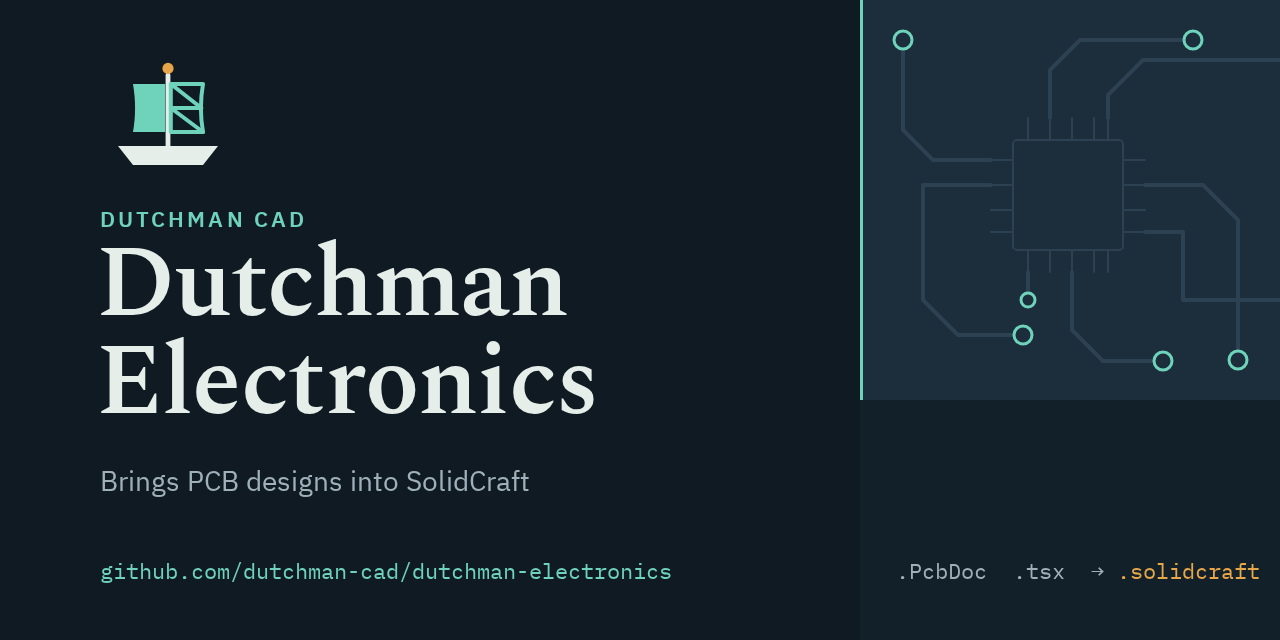
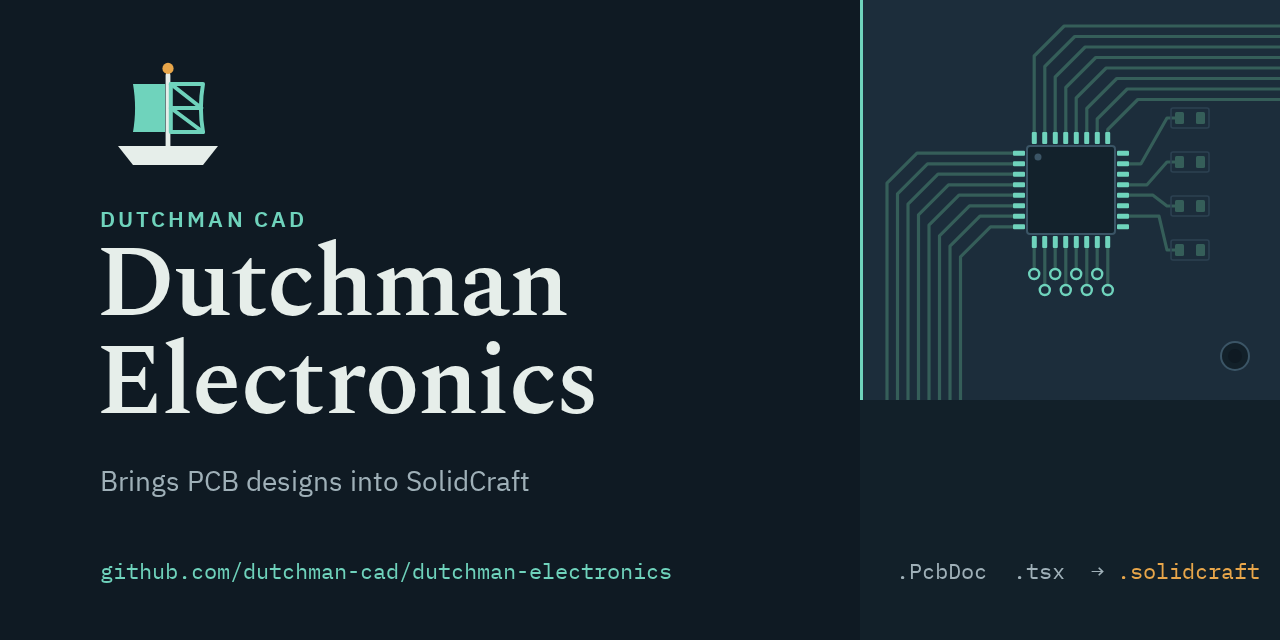
Redraw the board on the social card
A QFP with its pin pads, an eight-track bus at 45 degrees, vias, 0603
passives and a mounting hole. Only the board drawing changed; the fonts
still load from the vendored copies.

diff --git a/assets/social/social-preview.html b/assets/social/social-preview.html
@@ -20,12 +20,7 @@ h1 { position: absolute; left: -4px; top: 236px; margin: 0; font: 600 100px/0.98
 .formats b { font-weight: normal; color: #E8A64A; }
 </style></head><body>
 <div class="panel"></div>
-<div class="board"><svg width="417" height="400" viewBox="0 0 417 400" fill="none" stroke-linecap="round" stroke-linejoin="round">
-  <g stroke="#2C4152" stroke-width="2"><rect x="150" y="140" width="110" height="110" rx="4"/>
-    <path d="M165 140V118M187 140V118M209 140V118M231 140V118M245 140V118M165 250V272M187 250V272M209 250V272M231 250V272M245 250V272M150 160H128M150 185H128M150 210H128M150 232H128M260 160H282M260 185H282M260 210H282M260 232H282"/></g>
-  <g stroke="#2C4152" stroke-width="4"><path d="M128 160H70L40 130V40M128 185H60V300L95 335H160M187 118V70L217 40H330M245 118V95L280 60H417M282 185H340L375 220V360M282 232H320V300H417M209 272V330L240 361H300M165 272V300"/></g>
-  <g fill="#1C2D3B" stroke="#6FD3BC" stroke-width="3"><circle cx="40" cy="40" r="9"/><circle cx="160" cy="335" r="9"/><circle cx="330" cy="40" r="9"/><circle cx="375" cy="360" r="9"/><circle cx="300" cy="361" r="9"/><circle cx="165" cy="300" r="7"/></g>
-</svg></div>
+<div class="board"><svg width="417" height="400" viewBox="0 0 417 400" fill="none" stroke-linecap="round" stroke-linejoin="round"><g stroke="#355E59" stroke-width="3.2"><path d="M171.2 132 V56.0 L201.2 26.0 H417"/><path d="M181.8 132 V66.5 L211.8 36.5 H417"/><path d="M192.2 132 V77.0 L222.2 47.0 H417"/><path d="M202.8 132 V87.5 L232.8 57.5 H417"/><path d="M213.2 132 V98.0 L243.2 68.0 H417"/><path d="M223.8 132 V108.5 L253.8 78.5 H417"/><path d="M234.2 132 V119.0 L264.2 89.0 H417"/><path d="M244.8 132 V129.5 L274.8 99.5 H417"/><path d="M150 153.2 H54.0 L24.0 183.2 V400"/><path d="M150 163.8 H64.5 L34.5 193.8 V400"/><path d="M150 174.2 H75.0 L45.0 204.2 V400"/><path d="M150 184.8 H85.5 L55.5 214.8 V400"/><path d="M150 195.2 H96.0 L66.0 225.2 V400"/><path d="M150 205.8 H106.5 L76.5 235.8 V400"/><path d="M150 216.2 H117.0 L87.0 246.2 V400"/><path d="M150 226.8 H127.5 L97.5 256.8 V400"/><path d="M171.2 248 V274"/><path d="M181.8 248 V290"/><path d="M192.2 248 V274"/><path d="M202.8 248 V290"/><path d="M213.2 248 V274"/><path d="M223.8 248 V290"/><path d="M234.2 248 V274"/><path d="M244.8 248 V290"/><path d="M266 163.8 H278 L304 118 H312"/><path d="M266 184.8 H284 L304 162 H312"/><path d="M266 195.2 H290 L304 206 H312"/><path d="M266 216.2 H296 L304 250 H312"/></g><g fill="#355E59"><rect x="312" y="112" width="9" height="12" rx="1.5"/><rect x="333" y="112" width="9" height="12" rx="1.5"/><rect x="312" y="156" width="9" height="12" rx="1.5"/><rect x="333" y="156" width="9" height="12" rx="1.5"/><rect x="312" y="200" width="9" height="12" rx="1.5"/><rect x="333" y="200" width="9" height="12" rx="1.5"/><rect x="312" y="244" width="9" height="12" rx="1.5"/><rect x="333" y="244" width="9" height="12" rx="1.5"/></g><g stroke="#2C4152" stroke-width="1.6"><rect x="308" y="108" width="38" height="20" rx="2"/><rect x="308" y="152" width="38" height="20" rx="2"/><rect x="308" y="196" width="38" height="20" rx="2"/><rect x="308" y="240" width="38" height="20" rx="2"/></g><g fill="#6FD3BC"><rect x="168.8" y="132" width="5" height="12" rx="1"/><rect x="168.8" y="236" width="5" height="12" rx="1"/><rect x="150" y="150.8" width="12" height="5" rx="1"/><rect x="254" y="150.8" width="12" height="5" rx="1"/><rect x="179.2" y="132" width="5" height="12" rx="1"/><rect x="179.2" y="236" width="5" height="12" rx="1"/><rect x="150" y="161.2" width="12" height="5" rx="1"/><rect x="254" y="161.2" width="12" height="5" rx="1"/><rect x="189.8" y="132" width="5" height="12" rx="1"/><rect x="189.8" y="236" width="5" height="12" rx="1"/><rect x="150" y="171.8" width="12" height="5" rx="1"/><rect x="254" y="171.8" width="12" height="5" rx="1"/><rect x="200.2" y="132" width="5" height="12" rx="1"/><rect x="200.2" y="236" width="5" height="12" rx="1"/><rect x="150" y="182.2" width="12" height="5" rx="1"/><rect x="254" y="182.2" width="12" height="5" rx="1"/><rect x="210.8" y="132" width="5" height="12" rx="1"/><rect x="210.8" y="236" width="5" height="12" rx="1"/><rect x="150" y="192.8" width="12" height="5" rx="1"/><rect x="254" y="192.8" width="12" height="5" rx="1"/><rect x="221.2" y="132" width="5" height="12" rx="1"/><rect x="221.2" y="236" width="5" height="12" rx="1"/><rect x="150" y="203.2" width="12" height="5" rx="1"/><rect x="254" y="203.2" width="12" height="5" rx="1"/><rect x="231.8" y="132" width="5" height="12" rx="1"/><rect x="231.8" y="236" width="5" height="12" rx="1"/><rect x="150" y="213.8" width="12" height="5" rx="1"/><rect x="254" y="213.8" width="12" height="5" rx="1"/><rect x="242.2" y="132" width="5" height="12" rx="1"/><rect x="242.2" y="236" width="5" height="12" rx="1"/><rect x="150" y="224.2" width="12" height="5" rx="1"/><rect x="254" y="224.2" width="12" height="5" rx="1"/></g><rect x="164" y="146" width="88" height="88" rx="3" fill="#13222C" stroke="#3B5566" stroke-width="2"/><circle cx="175" cy="157" r="3.5" fill="#3B5566"/><g fill="#1C2D3B" stroke="#6FD3BC" stroke-width="2.4"><circle cx="171.2" cy="274" r="5"/><circle cx="181.8" cy="290" r="5"/><circle cx="192.2" cy="274" r="5"/><circle cx="202.8" cy="290" r="5"/><circle cx="213.2" cy="274" r="5"/><circle cx="223.8" cy="290" r="5"/><circle cx="234.2" cy="274" r="5"/><circle cx="244.8" cy="290" r="5"/></g><g fill="#122029" stroke="#3B5566" stroke-width="2"><circle cx="372" cy="356" r="14"/></g><circle cx="372" cy="356" r="7" fill="#0F1A23"/></svg></div>
 <div class="left">
   <svg class="mark" viewBox="0 0 64 64">
     <path d="M32 9.5V45" stroke="#E6EEEA" stroke-width="2.4" stroke-linecap="round"/>
